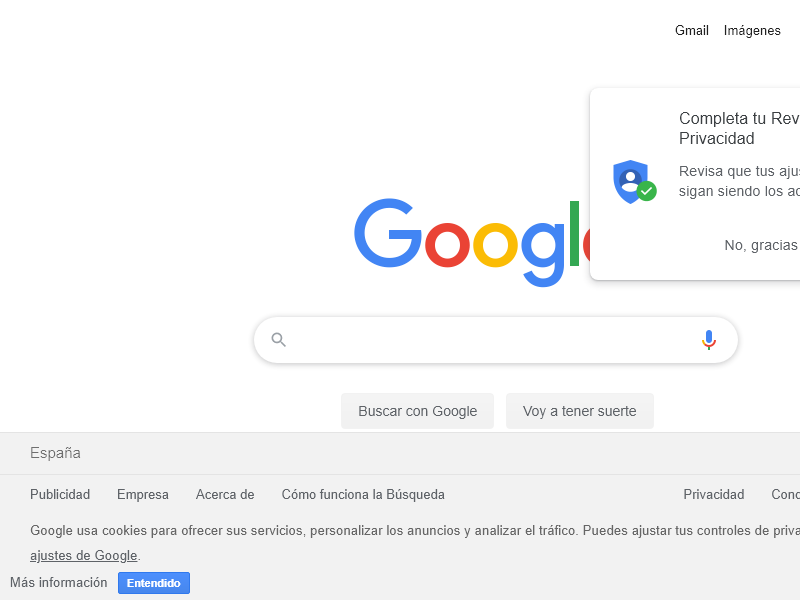
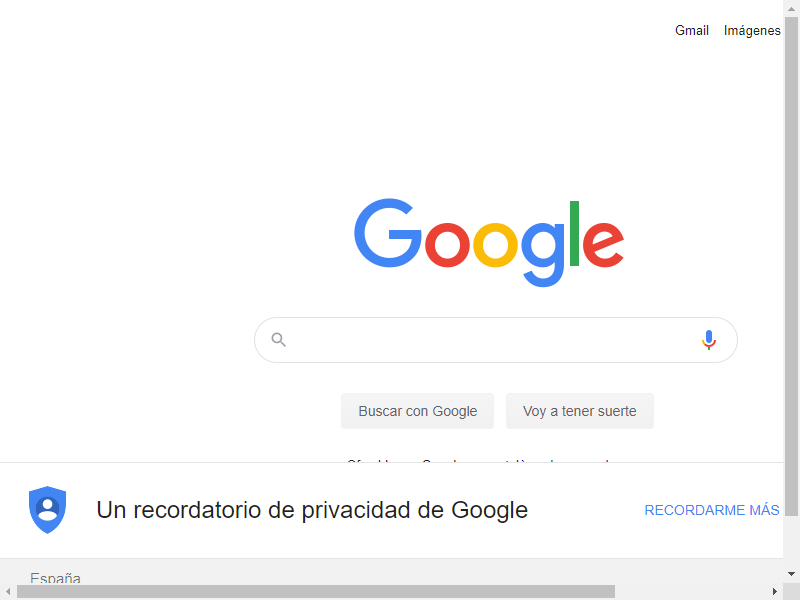
testing it on chromium

diff --git a/puppeteer scraping/installation and testing/index.js b/puppeteer scraping/installation and testing/index.js
@@ -1,10 +1,14 @@
 const puppeteer = require('puppeteer');
 
 (async() => {
-    const browser = await puppeteer.launch();
+    const browser = await puppeteer.launch({
+        headless: false // To see it lively on chromium
+    });
     const page = await browser.newPage();
     await page.goto('https://google.com');
     await page.screenshot({ path: 'example.png' });
 
-    await browser.close();
+    // await browser.close();
+
+    debugger;
 })();
